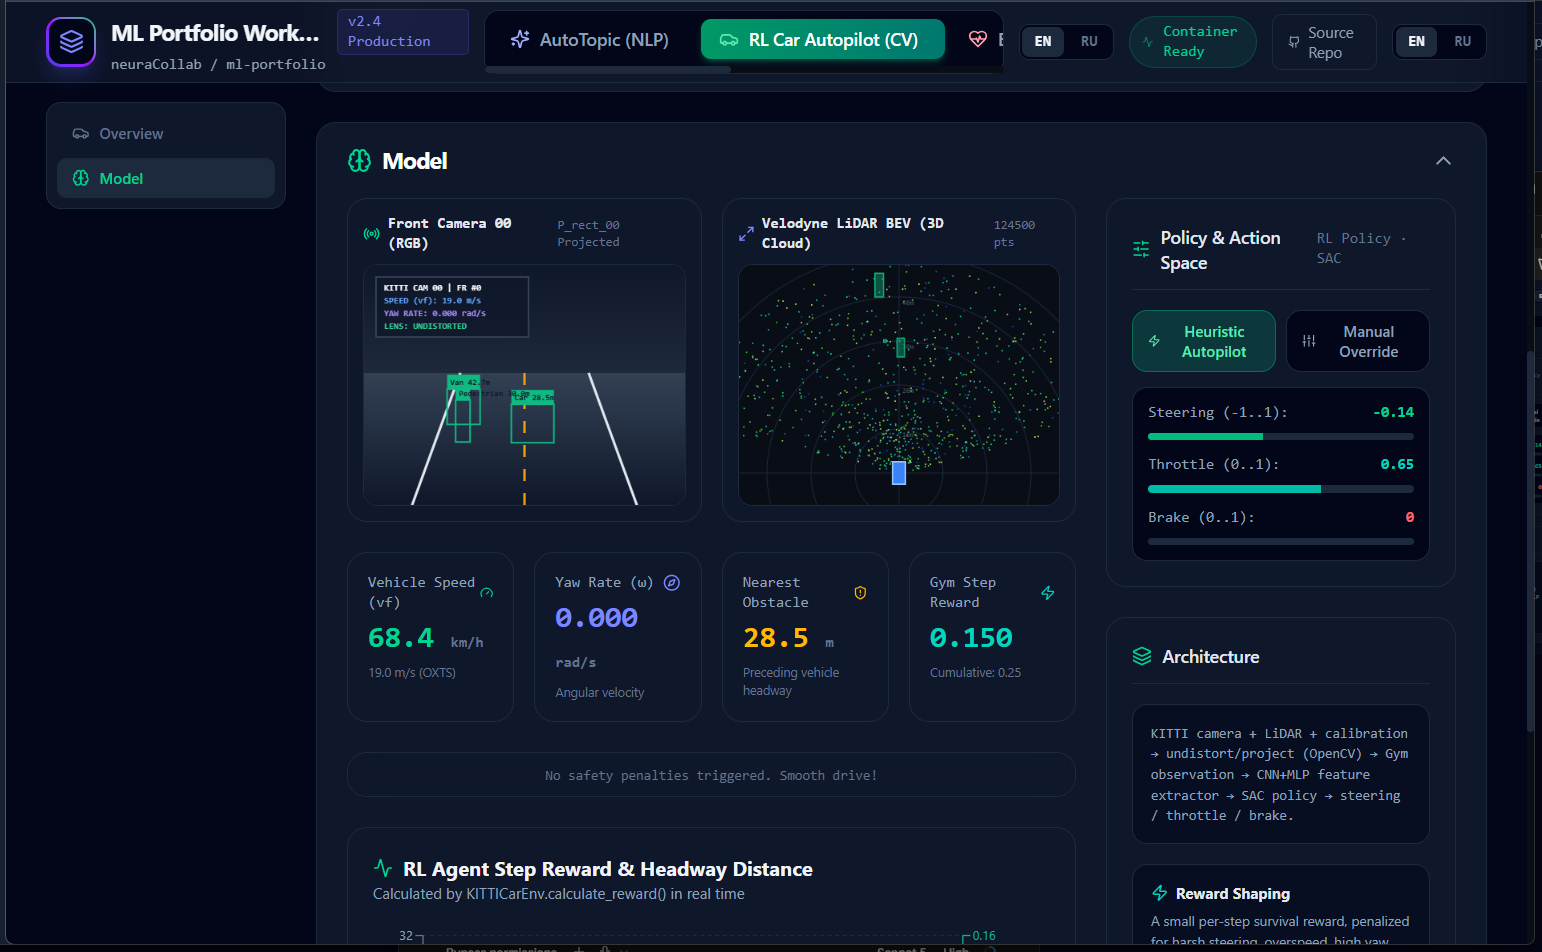
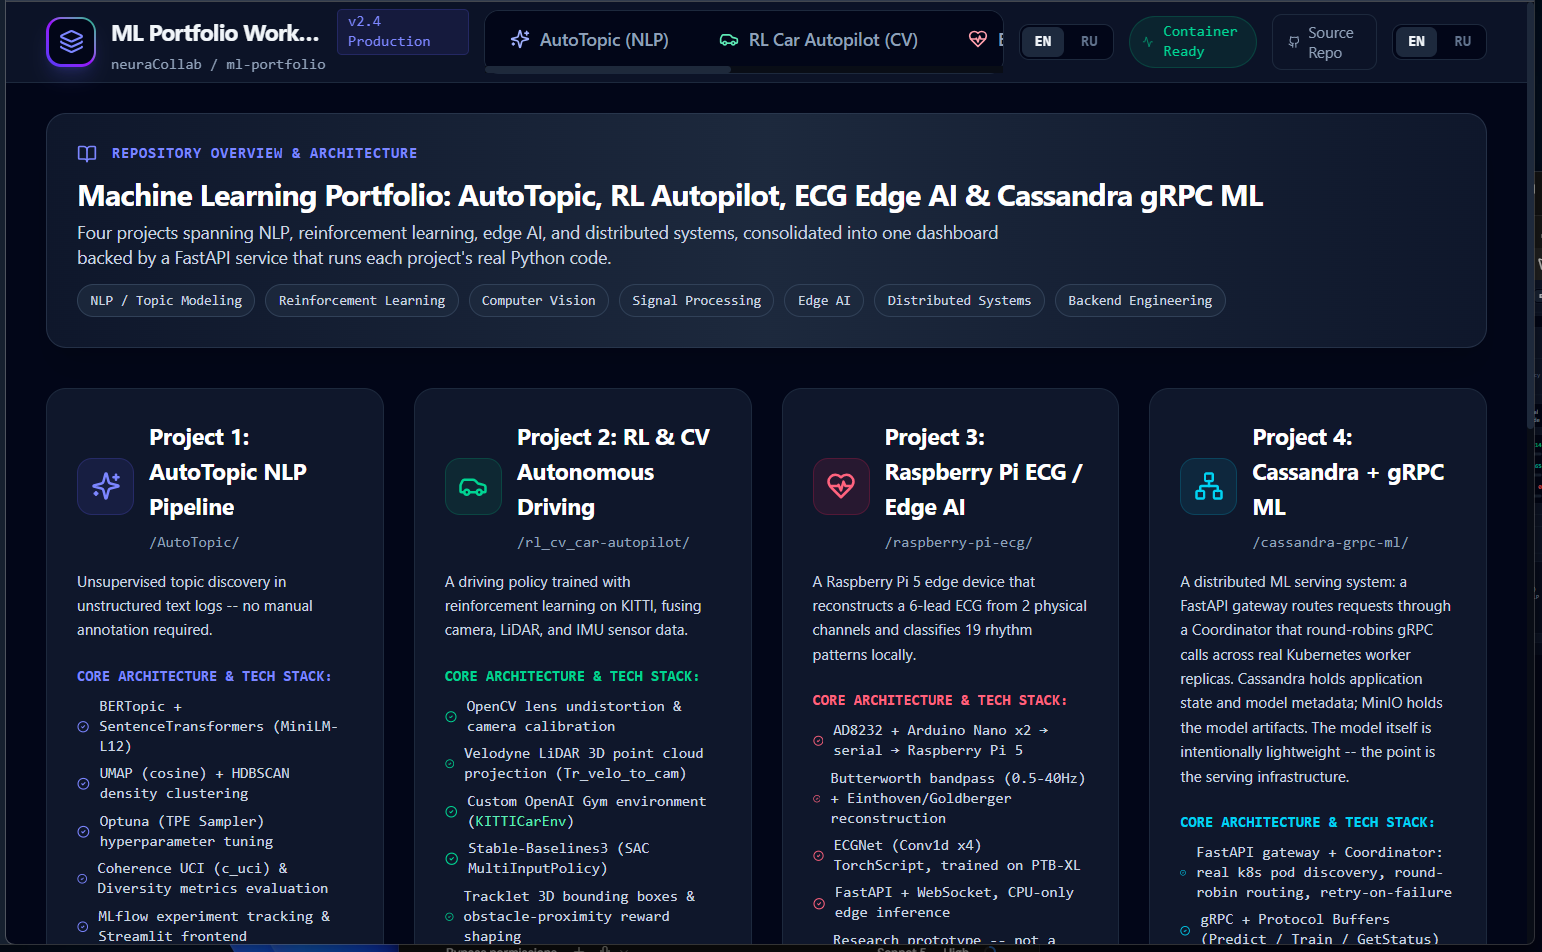
docs: add per-project screenshots, swap root preview to Overview & Docs
Each project README now opens with a real screenshot of its own page
in the live app. The root README's preview image now shows the
Overview & Docs page (the four-project tech-stack grid) instead of the
RL Autopilot dashboard.

diff --git a/AutoTopic/README.md b/AutoTopic/README.md
@@ -9,6 +9,8 @@
 
 ---
 
+![AutoTopic overview](../docs/assets/autotopic-preview.png)
+
 ## Overview
 
 The project analyzes text data from CSV files with a `log_text` column. It supports both Russian
@@ -22,6 +24,24 @@ sample.
   interpretability measurable, not just eyeballed.
 - **Why topic modeling**: BERTopic combines semantic embeddings with density-based clustering to
   discover topics automatically, without any pre-labeled training data.
+
+## Project Presentation
+
+The portfolio's AutoTopic page has a "Project Presentation" button controlled by
+`VITE_AUTOTOPIC_PRESENTATION_URL` (see root `.env.example` and
+`frontend/.env.example`):
+
+```
+VITE_AUTOTOPIC_PRESENTATION_URL=<REPLACE_WITH_GOOGLE_DRIVE_URL>
+```
+
+It's a frontend build-time variable (baked in via `frontend/Dockerfile`'s
+`ARG`/`ENV`, wired through `docker-compose.yml`), unlike `AUTOTOPIC_DATA_URL`
+above which is read by the backend at request time. **Replace the placeholder**
+in `.env.example` (or your own `.env` / deployment environment) with the real
+Google Drive share link once the presentation slides are uploaded there. Until
+it's replaced, the button renders disabled with a "not yet configured" tooltip
+instead of linking anywhere.
 
 ## Tech Stack
 

diff --git a/README.md b/README.md
@@ -15,7 +15,7 @@ inference, and scale a real Kubernetes cluster, right from the browser.
 
 One React frontend, one FastAPI backend, four real Python pipelines wired in end to end.
 
-![RL Autopilot model dashboard](docs/assets/preview.png)
+![Overview & Docs page](docs/assets/preview.png)
 
 ## Architecture
 

diff --git a/raspberry-pi-ecg/README.md b/raspberry-pi-ecg/README.md
@@ -8,6 +8,8 @@
 predictions are model classifications, not medical diagnoses, and must not be used for
 clinical decisions.**
 
+![ECG Edge AI overview](../docs/assets/ecg-preview.png)
+
 ## Overview
 
 A portable edge device that records a 2-channel ECG (via two AD8232 sensor + Arduino Nano

diff --git a/rl_cv_car-autopilot/README.md b/rl_cv_car-autopilot/README.md
@@ -1,5 +1,7 @@
 ## RL Car Autopilot on KITTI (Sensor Fusion & Reinforcement Learning Playground)
 
+![RL Autopilot overview](../docs/assets/autopilot-preview.png)
+
 ## Overview
 
 This project demonstrates end-to-end work with raw autonomous-driving sensor data (the KITTI

diff --git a/cassandra-grpc-ml/README.md b/cassandra-grpc-ml/README.md
@@ -1,5 +1,7 @@
 # Cassandra + gRPC ML
 
+![Cassandra + gRPC ML overview](../docs/assets/cassandra-preview.png)
+
 ## Overview
 
 A distributed ML pipeline: a real labeled sample of AutoTopic's request corpus is stored in
